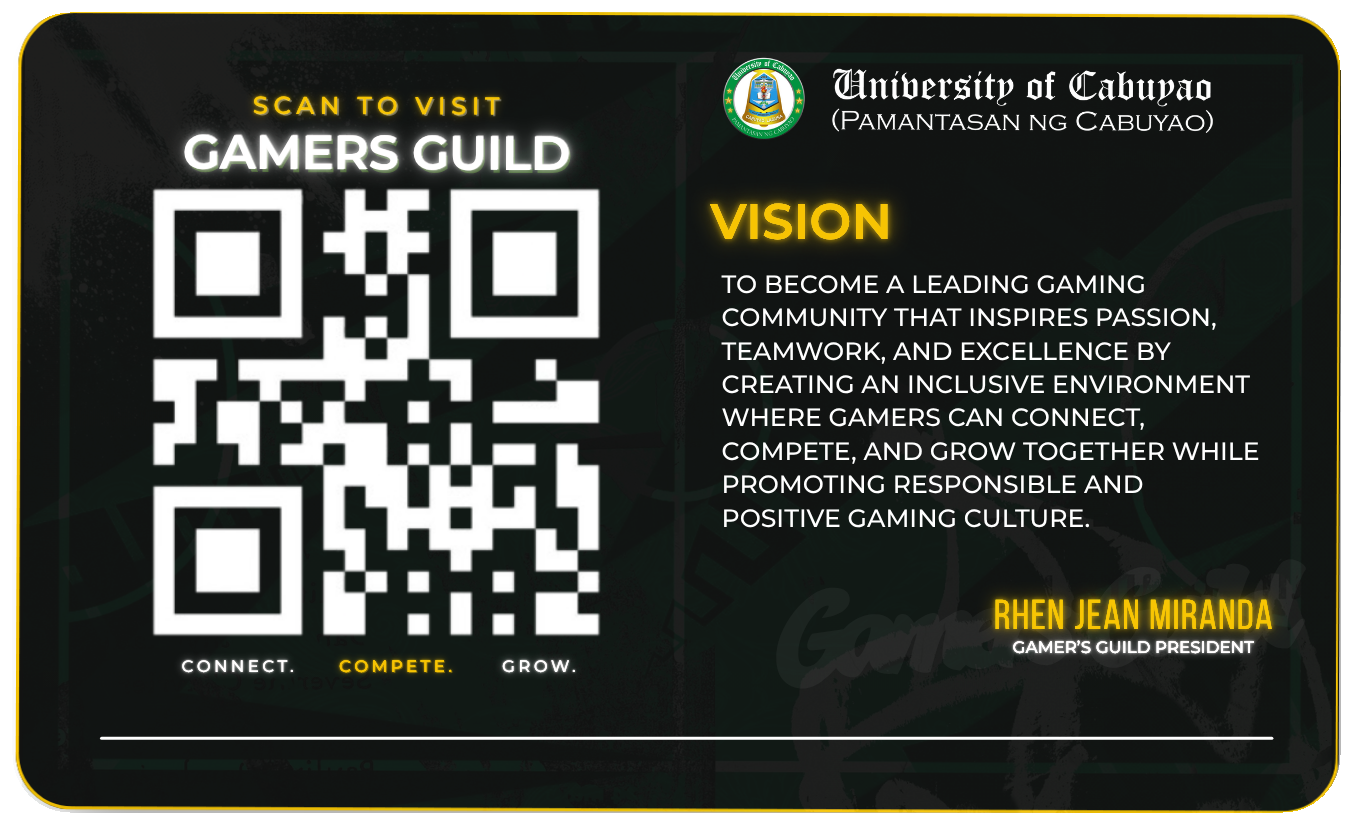
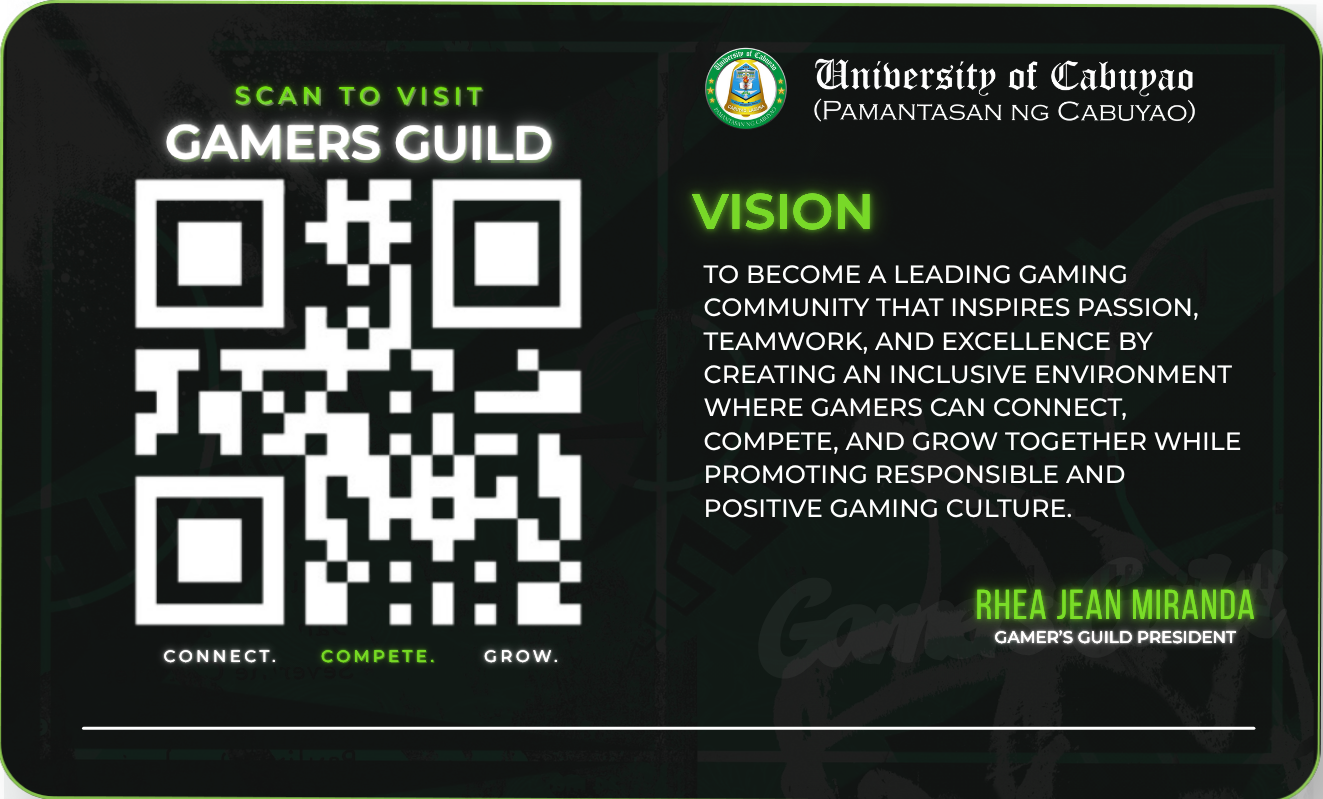
color change

diff --git a/components/MemberIdCard.tsx b/components/MemberIdCard.tsx
@@ -22,7 +22,7 @@ const CARD_WIDTH = 1344;
 const CARD_HEIGHT = 824;
 
 const cardOutlineStyle: React.CSSProperties = {
-  outline: '6px solid #ffd400',
+  outline: '6px solid #75cf48',
   outlineOffset: '-6px',
 };
 
@@ -39,22 +39,6 @@ const valueStyle: React.CSSProperties = {
   textShadow: '0 0 4px rgba(255, 255, 255, 0.82), 0 0 11px rgba(255, 255, 255, 0.28)',
 };
 
-// Converts a black-ink-on-white signature into white ink on a transparent
-// background, so it reads correctly against the card's dark theme.
-//
-// Previously this fetched the remote Vercel Blob image directly into a
-// cross-origin <img crossOrigin="anonymous">, then read its pixels with
-// getImageData(). If the response didn't carry the exact CORS headers the
-// browser expects, that read silently throws a SecurityError ("tainted
-// canvas") — which our catch block absorbed by falling back to the raw,
-// unprocessed image. That fallback is what's been showing as a plain
-// white box with black ink.
-//
-// The fix: fetch() the image ourselves first and convert it to a
-// same-origin blob: URL before ever touching a <canvas>. A same-origin
-// image can never taint a canvas, regardless of what CORS headers the
-// original server did or didn't send — so the conversion now runs
-// reliably instead of silently failing.
 function SignatureImage({ src }: { src: string }) {
   const [processedSrc, setProcessedSrc] = useState<string | null>(null);
 
@@ -161,6 +145,7 @@ export function MemberIdCard({
           background: '#0e1310',
           borderRadius: 64,
           overflow: 'hidden',
+          
           ...cardOutlineStyle,
         }}
       >
@@ -177,14 +162,14 @@ export function MemberIdCard({
         <div
           style={{
             position: 'absolute',
-            left: 56,
-            top: 54,
-            width: 470,
-            height: 612,
-            padding: 5,
+            left: 48,
+            top: 45,
+            width: 476,
+            height: 629,
             borderRadius: 42,
-            background: '#ffd400',
             overflow: 'hidden',
+            border: '7px solid #75cf48',
+    boxSizing: 'border-box',
           }}
         >
           <div
@@ -226,22 +211,32 @@ export function MemberIdCard({
           </div>
         </div>
 
-        <div
-          className={yellowtail.className}
-          style={{
-            position: 'absolute',
-            left: 70,
-            top: 500,
-            width: 350,
-            padding: '8px 14px 12px',
-            color: '#ffd400',
-            fontSize: 76,
-            fontFamily: '"Brush Script MT", "Segoe Script", var(--font-yellowtail)',
-            fontWeight: 700,
-            lineHeight: 1,
-            whiteSpace: 'nowrap',
-            overflow: 'visible',
-          }}
+      <div
+  className={yellowtail.className}
+  style={{
+    position: 'absolute',
+    left: 70,
+    top: 500,
+    width: 350,
+    padding: '8px 14px 12px',
+    color: '#75cf48',
+    fontSize: 76,
+    fontFamily: '"Brush Script MT", "Segoe Script", var(--font-yellowtail)',
+    fontWeight: 700,
+    lineHeight: 1,
+    whiteSpace: 'nowrap',
+    overflow: 'visible',
+
+    // Black stroke
+    WebkitTextStroke: '3px #000',
+    paintOrder: 'stroke fill',
+
+    // Subtle glow
+    textShadow: `
+      0 0 5px rgba(117, 207, 72, 0.7),
+      0 0 12px rgba(117, 207, 72, 0.4)
+    `,
+  }}
         >
           {ign}
         </div>
@@ -295,41 +290,50 @@ export function MemberIdCard({
           Member since {memberSince}
         </div>
 
-        <div className={montserrat.className} style={{ ...valueStyle, left: 596, top: 350 }}>
+        <div className={montserrat.className} style={{ ...valueStyle, left: 597, top: 350 }}>
           {studentId}
         </div>
-        <div className={montserrat.className} style={{ ...valueStyle, left: 1000, top: 350 }}>
+        <div className={montserrat.className} style={{ ...valueStyle, left: 1008, top: 350 }}>
           {positionLabel}
         </div>
-        <div className={montserrat.className} style={{ ...valueStyle, left: 596, top: 452 }}>
+        <div className={montserrat.className} style={{ ...valueStyle, left: 597, top: 454 }}>
           {dateOfBirth}
         </div>
-        <div className={montserrat.className} style={{ ...valueStyle, left: 996, top: 452 }}>
+        <div className={montserrat.className} style={{ ...valueStyle, left: 1004, top: 454 }}>
           {dateOfIssue}
         </div>
 
         {signatureUrl && (
-          <div style={{ position: 'absolute', left: 590, top: 553, width: 270, height: 105 }}>
+          <div
+            style={{
+              position: 'absolute',
+              left: 590,
+              top: 553,
+              width: 270,
+              height: 105,
+              background: 'transparent',
+            }}
+          >
             <SignatureImage src={signatureUrl} />
           </div>
         )}
 
-        <div style={{ position: 'absolute', left: 730, top: 751, width: 560, height: 38 }}>
+        <div style={{ position: 'absolute', left: 734, top: 756, width: 560, height: 38 }}>
           <span
             className={montserrat.className}
             style={{
               position: 'absolute',
               left: 0,
               width: 260,
-              color: '#ffd400',
-              fontSize: 23,
+              color: '#75cf48',
+              fontSize: 30,
               fontWeight: 800,
               lineHeight: 1.4,
               letterSpacing: '0.03em',
               textTransform: 'uppercase',
               textAlign: 'right',
               whiteSpace: 'nowrap',
-              textShadow: '0 0 4px rgba(255, 212, 0, 0.85), 0 0 10px rgba(255, 212, 0, 0.35)',
+              textShadow: '0 0 4px rgba(117, 207, 72, 0.85), 0 0 10px rgba(117, 207, 72, 0.35)',
             }}
           >
             {ign}
@@ -341,7 +345,7 @@ export function MemberIdCard({
               left: 300,
               width: 250,
               color: '#ffffff',
-              fontSize: 21,
+              fontSize: 30,
               fontWeight: 700,
               lineHeight: 1.4,
               whiteSpace: 'nowrap',
@@ -379,14 +383,14 @@ export function MemberIdCard({
           <div
             style={{
               position: 'absolute',
-              left: 148,
+              left: 130,
               top: 180,
-              width: 452,
-              height: 465,
+              width: 468,
+              height: 470,
               padding: 6,
               borderRadius: 24,
               background: '#ffffff',
-              border: '4px solid #ffd400',
+              border: '4px solid #75cf48',
               boxSizing: 'border-box',
             }}
           >
